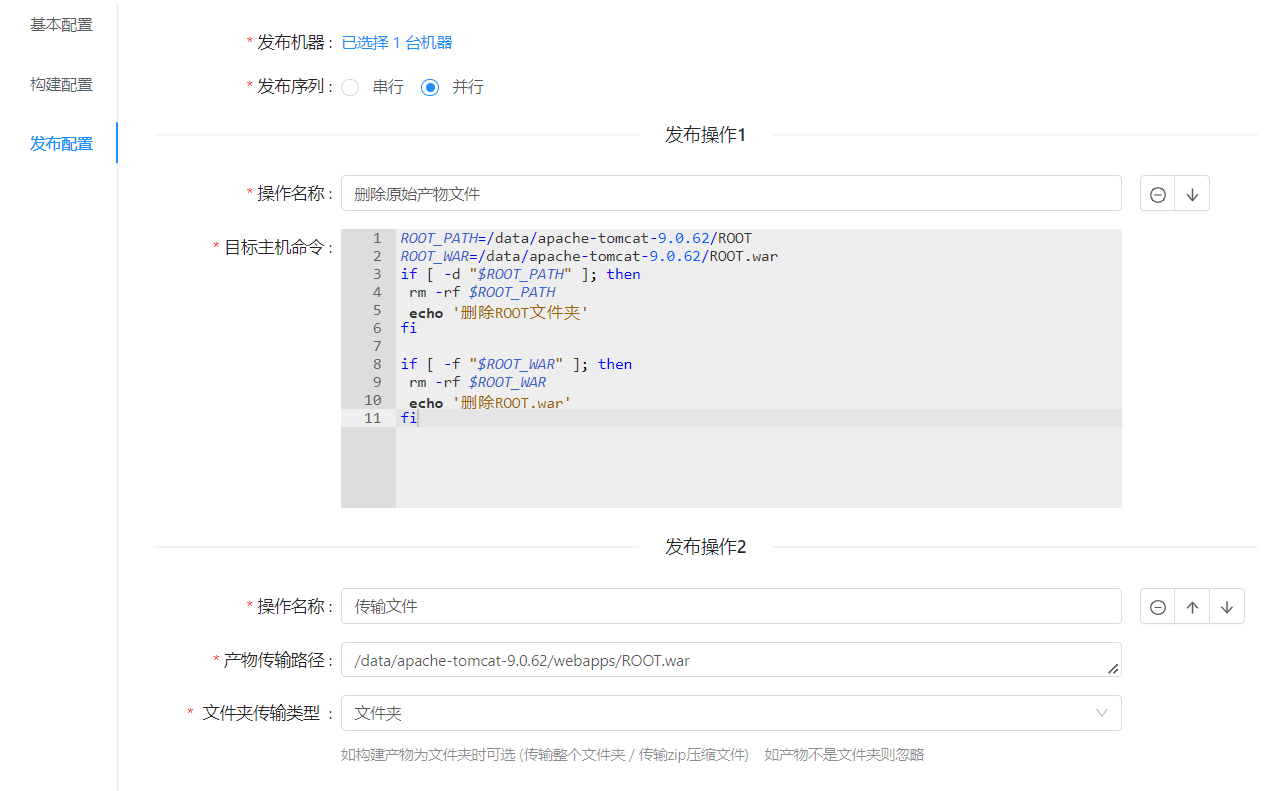
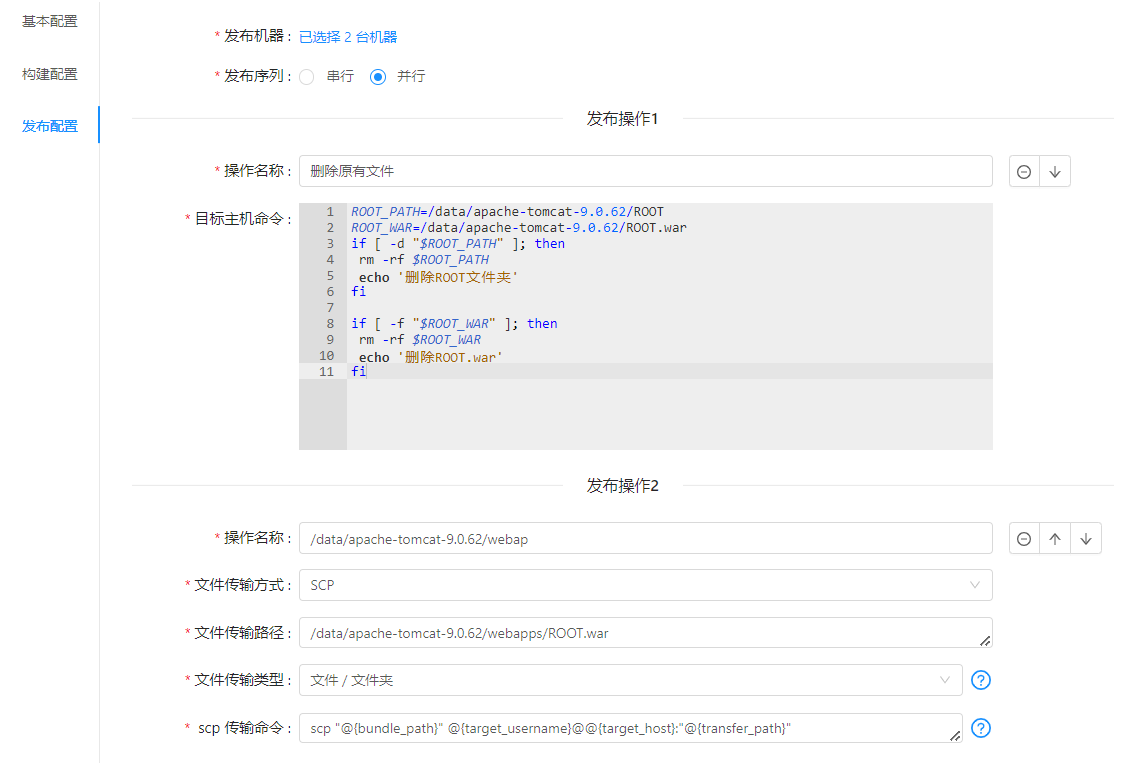
update docs.

diff --git a/README.md b/README.md
@@ -1,6 +1,6 @@
 ## orion-ops 是什么
 
-`orion-ops` 一站式自动化运维及自动化部署平台, 无 Agent 的方式接入应用, 使用多环境的概念, 提供了机器管理、Web终端、WebSftp、机器批量执行、机器批量上传、在线查看日志、定时调度任务、应用环境维护、应用构建及发布任务 (CI/CD)、操作流水线等功能, 帮助企业实现一站式轻量化运维治理,
+`orion-ops` 一站式自动化运维及自动化部署平台, 无 Agent 的方式接入应用, 使用多环境的概念, 提供了机器管理、Web终端、WebSftp、机器批量执行、机器批量上传、在线查看日志、定时调度任务、应用环境维护、应用构建及发布任务、操作流水线等功能, 帮助企业实现一站式轻量化运维治理,
 致力于企业级应用的智能运维。
 
 <p style="text-align: center">
@@ -46,7 +46,7 @@ demo: http://101.43.254.243/ops/#/
 * 调度任务: 维护 cron 表达式, 定时执行机器命令
 * 环境隔离: 不同应用环境的配置及环境变量是相互隔离的
 * 环境变量: 命令执行时使用占位符自动替换, 支持 properties, json, yml, xml多种格式维护
-* 高兼容性: 自定义 CI/CD 操作, 不论是什么项目都是配置 SSH 执行命令, 灵活操作
+* 高兼容性: 自定义构建发布操作, 不论是什么项目都是配置 SSH 执行命令, 灵活操作
 * 功能强大: 命令批量执行, 任务定时调度, 远程日志查看, 操作日志全记录等
 * 高扩展性: 前后端代码规范统一, 代码健壮质量高, 写法优雅, 易读好拓展
 * 免费开源: 前后端代码完全开源, 方便二次开发
@@ -69,26 +69,19 @@ roadmap: https://lijiahangmax.gitee.io/orion-ops/#/about/roadmap
 * Vue 2.6.11
 * Ant Design 1.7.8
 
-## 系统架构
-
-> 总体架构
-
-![总体架构](https://yxythpt.oss-cn-shenzhen.aliyuncs.com/2022-03-28/files1661632709499769734.png "总体架构")
-
-> 发布架构 (CI / CD)
-
-![发布架构](https://yxythpt.oss-cn-shenzhen.aliyuncs.com/2022-03-28/files6312827529386043725.png "发布架构")
-
-<br/>
-
 ## 功能预览
+
+> 控制台
+
+![控制台](http://bjucloud.oss-cn-qingdao.aliyuncs.com/album/2022/7/23/e220f5ba-fbf7-48b1-9b65-26cabc08713d.jpg "控制台")
 
 > 机器列表
 
-![机器列表](https://yxythpt.oss-cn-shenzhen.aliyuncs.com/2022-05-05/files4260895980395378347.png "机器列表")
+![机器列表](http://bjucloud.oss-cn-qingdao.aliyuncs.com/album/2022/7/23/f8b84d93-6cbe-4aa0-8e29-104a82ec9fc0.jpg "机器列表")
 
 > 在线终端
 
+![终端banner](http://bjucloud.oss-cn-qingdao.aliyuncs.com/album/2022/7/23/ac3f8e83-a281-4593-8948-bfee2f77df7b.jpg "终端banner")
 ![在线终端](https://yxythpt.oss-cn-shenzhen.aliyuncs.com/2022-03-14/files4787611964158821533.png "在线终端")
 
 > 在线文件管理
@@ -131,12 +124,27 @@ roadmap: https://lijiahangmax.gitee.io/orion-ops/#/about/roadmap
 ![流水线配置](https://yxythpt.oss-cn-shenzhen.aliyuncs.com/2022-04-25/files694386343461173439.png "流水线配置")
 ![流水线任务](https://yxythpt.oss-cn-shenzhen.aliyuncs.com/2022-04-25/files6446052342050924823.png "流水线任务")
 
+> 登陆日志
+
+![登陆日志](http://bjucloud.oss-cn-qingdao.aliyuncs.com/album/2022/7/23/4a548584-6cee-4b95-9811-5d2a670bfca8.jpg "登陆日志")
+
+> 安全配置
+
+![安全配置](http://bjucloud.oss-cn-qingdao.aliyuncs.com/album/2022/7/23/f79d16a1-500c-4b4c-bd2e-1bc212d453bf.png "安全配置")
+
 > 消息
 
-![操作日志](https://yxythpt.oss-cn-shenzhen.aliyuncs.com/2022-04-25/files1778166520525763829.png "操作日志")
-![站内信](https://yxythpt.oss-cn-shenzhen.aliyuncs.com/2022-04-25/files1762448910379225648.png "站内信")
+![操作日志](http://bjucloud.oss-cn-qingdao.aliyuncs.com/album/2022/7/23/432c6dd0-0943-4868-9a2a-32147f566d55.jpg "操作日志")
+![站内信](http://bjucloud.oss-cn-qingdao.aliyuncs.com/album/2022/7/23/cfcbb03c-fafa-4e7c-9e2d-f22f8c56c753.jpg "站内信")
 
-<br/>
+## 添砖加瓦
+
+PR 规则: 只能在 `github` 的 `dev` 分支提交 PR, merge 后我会手动同步 gitee  
+orion-ops 作为开源项目, 欢迎任何人提出建议以及贡献代码。你所做出的每一次贡献都是有意义的, 同时也会永远保留在贡献者名单中  
+欢迎大家添砖加瓦以及文档纠错, 这也是开源项目的意义所在!
+
+[代码结构及开发规范](https://https://lijiahangmax.github.io/orion-ops/#/about/code-structure)  
+[贡献者名单](https://https://lijiahangmax.github.io/orion-ops/#/about/contributor)
 
 ## 联系我
 

diff --git a/docs/operator/app.md b/docs/operator/app.md
@@ -71,7 +71,7 @@
 
 设计思路: 发布的应用可能是以集群的形式发布的, 可能会有多台机器同时发布一个应用, 基于选择的构建版本, 进行发布操作。
 
-`文件传输方式` 可选择使用 `sftp` / `scp` 来分发产物文件。      
+`文件传输方式` 可选择使用 `SFTP` / `SCP` 来分发产物文件。      
 `文件传输路径` 是将选择的构建版本生成的产物分发到发布机器后绝对路径。
 
 如果构建产物是一个文件 `build.jar`  
@@ -81,7 +81,7 @@
 当 文件传输类型 选择 `文件/文件夹` 文件传输路径 可以配置为 `/data/projects/dist`     
 当 文件传输类型 选择 `zip` 文件传输路径 可以配置为 `/data/projects/dist.zip` 然后在进行解压。
 
-当 `产物传输方式` 选择 `scp` 时可配置 `scp 传输命令`  
+当 `产物传输方式` 选择 `SCP` 时可配置 `scp 传输命令`  
 默认命令为 `scp "@{bundle_path}" @{target_username}@@{target_host}:"@{transfer_path}"`, 使用 `@{xxx}` 替换变量。
 
 | key             | 示例                                          | 描述                                 |
@@ -91,9 +91,8 @@
 | target_username | root                                         | 目标机器用户                           |
 | target_host     | 192.168.5.65                                 | 目标机器主机                           |  
 
-⚡ **这里一定要注意**: 文件传输方式选择 `SFTP` 后, 当执行传输操作时, 会先**删除**文件传输路径再进行传输操作  
-**配置不正确会导致数据误删除!!!**  
-这里更推荐使用 `scp` 的方式来传输产物文件, 速度更快, 以命令的形式配置, 更加灵活。
+⚡ **注意**: 传输时需要确保传输目录文件不存在后再进行传输操作, 否则可能会导致数据无法传输, 通常在传输之前需要配置删除旧版本包命令!    
+这里更推荐使用 `SCP` 的方式来传输产物文件, 速度更快, 以命令的形式配置, 更加灵活。
 
 ```
 当然这里也可以写死, 以上述例子命令执行时会替换为

diff --git a/docs/about/change-log.md b/docs/about/change-log.md
@@ -14,13 +14,14 @@
 🔨 `sftp` 功能添加文件上传提示以及返回上一级按钮       
 🔨 移除 `terminal` 中的不稳定插件 `g2d 加速`     
 🔨 `terminal banner` 页面添加快捷键提示       
-🔨 将部分后端配置从变量移动到配置文件中 `加密秘钥` `转换器扫描包` `日志拦截器`     
+🔨 将部分后端配置从变量移动到配置文件中 `加密秘钥` `转换器扫描包` `日志拦截器` `版本`     
 🔨 修改后端部分 `API` 请求方式      
 🔨 重命名应用仓库表名及字段名   
 🔨 应用构建配置中的环境变量 `vcs_home` `vcs_event_home` 改为 `repo_home` `repo_event_home`       
 🔨 系统环境变量中的 `vcs_path` 改为 `repo_path`    
 🔨 优化部分前端交互 如: `菜单超链接`      
-🔨 修改前后端跨域配置      
+🔨 出于安全考虑 修改前后端跨域配置, 以及更新了 nginx 配置       
+🔨 出于安全考虑以及防止误操作 移除了应用发布配置中传输方式选择 `SFTP` 时自动删除原文件的特性  
 🐞 修复 控制台应用流水线统计不对的问题
 
 [如何升级](/about/update.md?id=_114)

diff --git a/docs/quickstart/install.md b/docs/quickstart/install.md
@@ -74,14 +74,12 @@ server {
         index  index.html index.htm;
         proxy_set_header X-Real-IP  $remote_addr;
         proxy_set_header X-Forwarded-For $proxy_add_x_forwarded_for;
-        proxy_set_header Host $http_host;
     }
 
     location /orion/api {
         proxy_pass    http://localhost:9119/orion/api;
         proxy_set_header X-Real-IP  $remote_addr;
         proxy_set_header X-Forwarded-For $proxy_add_x_forwarded_for;
-        proxy_set_header Host $http_host;
     }
 
      location /orion/keep-alive {

diff --git a/docs/about/update.md b/docs/about/update.md
@@ -2,6 +2,14 @@
 
 ## 1.1.4
 
+> 应用发布配置
+
+出于安全考虑以及防止误操作 **移除**了应用发布配置中传输方式选择 `SFTP` 时自动删除原文件的特性, 请检查应用配置!
+
+> nginx 配置
+
+出于安全考虑, 修改了后端跨域配置, 升级时需要修改 nginx 配置 [如何修改](/quickstart/install.md?id=修改-nginx-配置)
+
 > sql 脚本
 
 ```sql
